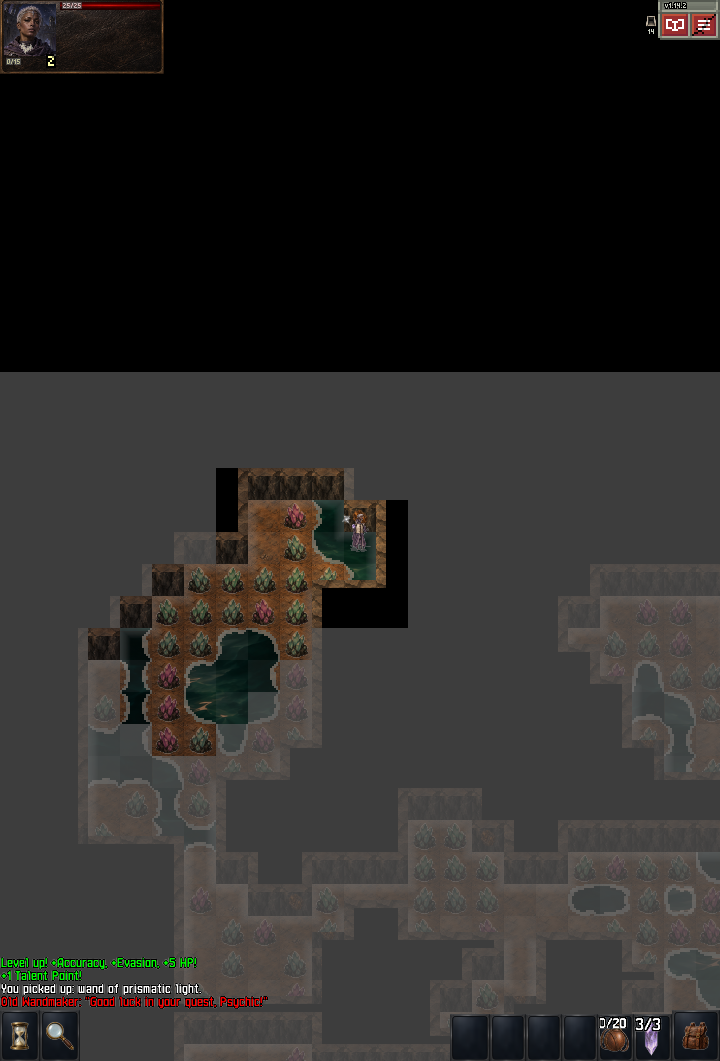
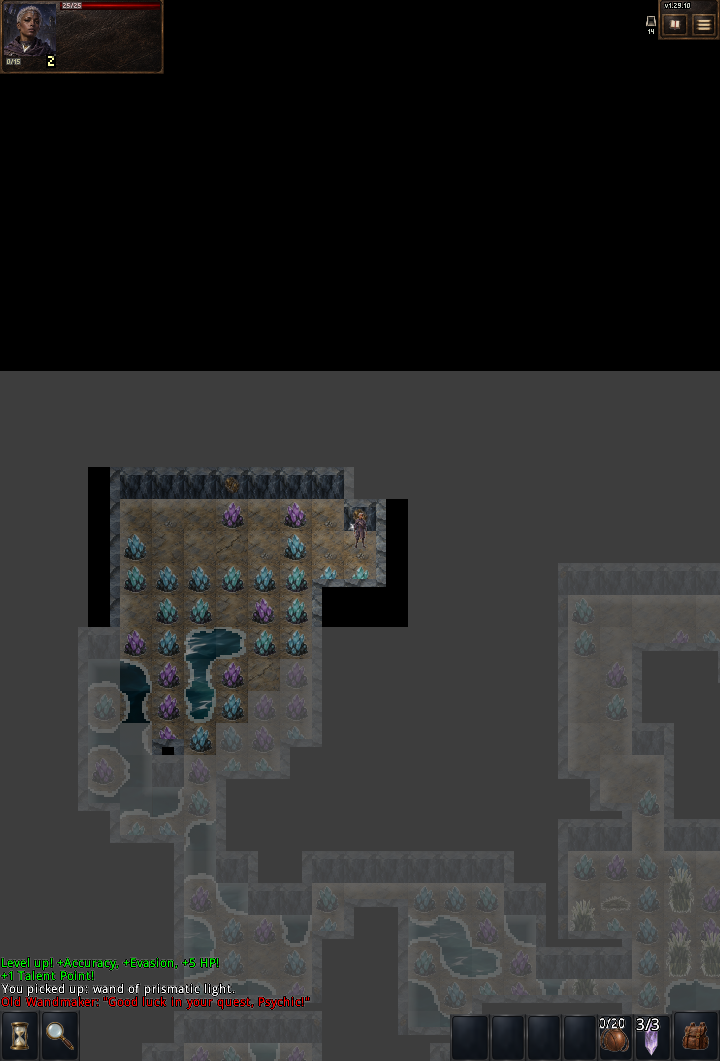
Fix mine ore pocket placement and exposed vein visibility

diff --git a/core/src/test/java/com/shatteredpixel/shatteredpixeldungeon/acceptance/SmokeRun.java b/core/src/test/java/com/shatteredpixel/shatteredpixeldungeon/acceptance/SmokeRun.java
@@ -78,7 +78,7 @@ public class SmokeRun {
                             if(Dungeon.depth!=6) throw new AssertionError("Save/load depth mismatch");
                         }
                     }
-                    if(seed==0){v4Scenario();contentScenario();ashlightScenario();playtestScenario();tabletScenario();psychicWeaponAndDetectionScenario();HatchlingScenario.run();keepsakeScenario();TuningScenario.run();ExpeditionScenario.run();HorrorScenario.run();PlaytestPolishScenario.run();ScribingRoomsScenario.spellguard();ScribingRoomsScenario.scribing();ScribingRoomsScenario.elementalRooms();DoubloonScenario.run();WaywardScenario.run();BountyScenario.run();}
+                    if(seed==0){v4Scenario();contentScenario();ashlightScenario();playtestScenario();tabletScenario();psychicWeaponAndDetectionScenario();HatchlingScenario.run();keepsakeScenario();TuningScenario.run();ExpeditionScenario.run();HorrorScenario.run();PlaytestPolishScenario.run();ScribingRoomsScenario.spellguard();ScribingRoomsScenario.scribing();ScribingRoomsScenario.elementalRooms();DoubloonScenario.run();WaywardScenario.run();BountyScenario.run();miningOreScenario();}
                     String line="PASS "+name+" seed="+seed+" floor=6 save/load=ok";
                     System.out.println(line); log.println(line);
                 } catch(Throwable error) {
@@ -653,6 +653,78 @@ public class SmokeRun {
         for(Class<?> kind:new Class<?>[]{com.shatteredpixel.shatteredpixeldungeon.items.wands.WandOfNecrosis.class,com.shatteredpixel.shatteredpixeldungeon.items.wands.WandOfGravity.class,com.shatteredpixel.shatteredpixeldungeon.items.wands.WandOfBone.class}){int index=Arrays.asList(Generator.Category.WAND.classes).indexOf(kind);check(index>=0&&Generator.Category.WAND.defaultProbs[index]==3,"New wand generator weight");}
         check(Arrays.asList(Weapon.Enchantment.curses).contains(com.shatteredpixel.shatteredpixeldungeon.items.weapon.curses.Echo.class)&&Arrays.asList(Armor.Glyph.curses).contains(com.shatteredpixel.shatteredpixeldungeon.items.armor.curses.Withering.class),"New curse pools");
         System.out.println("PASS CONTENT "+h.heroClass+": curses, healing, three scythes, armor/crown persistence, three wands, Soulfire recipe/immunity, Hourglass charge/upgrade/refund/save, cursed mob/drop, Hexcaster and Chainwarden");
+    }
+    private static void miningOreScenario() throws Exception {
+        com.watabou.utils.Bundle quest = new Bundle();
+        com.shatteredpixel.shatteredpixeldungeon.actors.mobs.npcs.Blacksmith.Quest.storeInBundle(quest);
+        long seed = Dungeon.seed;
+        int depth = Dungeon.depth, branch = Dungeon.branch;
+        Level original = Dungeon.level;
+        int minimum = Integer.MAX_VALUE, maximum = 0, buried = 0, invalidSecretRooms = 0;
+        try {
+            Dungeon.depth = 12; Dungeon.branch = 1;
+            for (int type = 1; type <= 2; type++) for (int sample = 0; sample < 104; sample++) {
+                Dungeon.seed = sample < 100 ? sample : 4507775544315L;
+                Dungeon.depth = sample < 100 ? 12 : sample - 89;
+                Bundle state = new Bundle(), node = new Bundle();
+                node.put("spawned", true); node.put("type", type); state.put("blacksmith", node);
+                com.shatteredpixel.shatteredpixeldungeon.actors.mobs.npcs.Blacksmith.Quest.restoreFromBundle(state);
+                Level mine = new com.shatteredpixel.shatteredpixeldungeon.levels.MiningLevel();
+                mine.create();
+                int ore = 0, levelBuried = 0, sideFacing = 0;
+                for (int cell = 0; cell < mine.length(); cell++) if (mine.map[cell] == Terrain.WALL_DECO) {
+                    check(mine.insideMap(cell), "Mine ore outside diggable boundary: " + sample + "/" + type);
+                    ore++;
+                    if (!mine.discoverable[cell]) { buried++; levelBuried++; }
+                    if (com.shatteredpixel.shatteredpixeldungeon.tiles.DungeonTileSheet.wallStitcheable(mine.map[cell+mine.width()])) sideFacing++;
+                }
+                for (Heap heap : mine.heaps.valueList()) for (Item item : heap.items)
+                    if (item instanceof com.shatteredpixel.shatteredpixeldungeon.items.quest.DarkGold) ore += item.quantity();
+                check(ore >= 45 && ore <= 47, "Mine ore budget: " + sample + "/" + type + " has " + ore);
+                java.util.ArrayList<Integer> secretTotals = new java.util.ArrayList<>();
+                for (com.shatteredpixel.shatteredpixeldungeon.levels.rooms.Room room
+                        : ((com.shatteredpixel.shatteredpixeldungeon.levels.RegularLevel)mine).rooms()) {
+                    if (!(room instanceof com.shatteredpixel.shatteredpixeldungeon.levels.rooms.quest.MineSecretRoom)) continue;
+                    int secretOre = 0;
+                    for (com.watabou.utils.Point point : room.getPoints()) {
+                        if (!room.inside(point)) continue;
+                        int cell = mine.pointToCell(point);
+                        if (mine.map[cell] == Terrain.WALL_DECO) secretOre++;
+                        Heap heap = mine.heaps.get(cell);
+                        if (heap != null) for (Item item : heap.items)
+                            if (item instanceof com.shatteredpixel.shatteredpixeldungeon.items.quest.DarkGold) secretOre += item.quantity();
+                    }
+                    secretTotals.add(secretOre);
+                    if (secretOre < 4 || secretOre > 5) invalidSecretRooms++;
+                }
+                check(secretTotals.size() == 2, "Mine must retain two treasure rooms");
+                if (sample >= 100) System.out.println("MINE REPORTED SEED: " + Dungeon.seed + "; type=" + type
+                        + "; depth=" + Dungeon.depth + "; total=" + ore + "; buried=" + levelBuried
+                        + "; side-facing=" + sideFacing + "; secret rooms=" + secretTotals);
+                if (sample >= 100) {
+                    Bundle stored = new Bundle(); stored.put("mine", mine);
+                    Level restored = (Level)stored.get("mine");
+                    check(Arrays.equals(mine.map, restored.map), "Mine reload changes ore terrain");
+                    int restoredHeaps = 0, originalHeaps = 0;
+                    for (Heap heap : mine.heaps.valueList()) for (Item item : heap.items)
+                        if (item instanceof com.shatteredpixel.shatteredpixeldungeon.items.quest.DarkGold) originalHeaps += item.quantity();
+                    for (Heap heap : restored.heaps.valueList()) for (Item item : heap.items)
+                        if (item instanceof com.shatteredpixel.shatteredpixeldungeon.items.quest.DarkGold) restoredHeaps += item.quantity();
+                    check(originalHeaps == restoredHeaps, "Mine reload changes ore heaps");
+                }
+                minimum = Math.min(minimum, ore); maximum = Math.max(maximum, ore);
+            }
+            check(invalidSecretRooms == 0, "Mine secret-room deposits overwritten: " + invalidSecretRooms + " rooms");
+            check(com.shatteredpixel.shatteredpixeldungeon.items.trinkets.HatchlingMimic.foodPriority(
+                    new com.shatteredpixel.shatteredpixeldungeon.items.quest.DarkGold(), Dungeon.hero) < 0,
+                    "Hatchling must never eat dark ore");
+            System.out.println("PASS MINE ORE: crystal/gnoll 100 seeds each plus reported seed on floors 11-14; total=" + minimum + "-" + maximum
+                    + "; buried veins=" + buried + "; quest ore protected");
+        } finally {
+            Dungeon.seed = seed; Dungeon.depth = depth; Dungeon.branch = branch; Dungeon.level = original;
+            com.shatteredpixel.shatteredpixeldungeon.actors.mobs.npcs.Blacksmith.Quest.restoreFromBundle(quest);
+            com.watabou.utils.PathFinder.setMapSize(original.width(), original.height());
+        }
     }
     private static void v4Scenario() throws Exception {
         // Exercise the merge boundary: actual City/Vault generation, serialized quest and

diff --git a/desktop/src/main/java/com/shatteredpixel/shatteredpixeldungeon/desktop/DesktopSmokeProbe.java b/desktop/src/main/java/com/shatteredpixel/shatteredpixeldungeon/desktop/DesktopSmokeProbe.java
@@ -49,6 +49,7 @@ final class DesktopSmokeProbe extends ShatteredPixelDungeon {
     private com.shatteredpixel.shatteredpixeldungeon.actors.mobs.npcs.TreasureHunter expeditionHunter;
     private final boolean roomReview=Boolean.getBoolean("grimhollow.roomReview");
     private int roomStep, roomFrames, ritualTable, ritualCage, roomCenter;
+    private int minedOreCell, oreBeforeMining;
     private final boolean presentationReview=Boolean.getBoolean("grimhollow.presentationReview");
     private boolean presentationStarted;
     private final java.util.HashSet<Integer> loadingCaptures=new java.util.HashSet<>();
@@ -2217,15 +2218,17 @@ final class DesktopSmokeProbe extends ShatteredPixelDungeon {
                     int ore=roomCenter-Dungeon.level.width();Level.set(ore,Terrain.WALL_DECO);
                     EnhancedEffects.Torch flame=new EnhancedEffects.Torch(ore);Level.set(ore,Terrain.EMPTY);flame.update();
                     if(flame.alive)throw new AssertionError("Flame survived source mining");
-                    GameScene.updateMap();break;
+                    GameScene.updateMap();startNativeOreMining();break;
                 case 9:
-                    capture("gnoll-mine-after-mining");prepareRooms(3);switchNoFade(GameScene.class);break;
+                    assertNativeOreMined();capture("gnoll-mine-after-mining");prepareRooms(3);switchNoFade(GameScene.class);break;
                 case 10:
                     miningTorchChecks();capture("crystal-mine");
                     com.shatteredpixel.shatteredpixeldungeon.actors.mobs.Chainwarden boss=new com.shatteredpixel.shatteredpixeldungeon.actors.mobs.Chainwarden();
                     boss.pos=Dungeon.hero.pos+1;boss.HP=boss.HT/2;GameScene.add(boss);com.shatteredpixel.shatteredpixeldungeon.ui.BossHealthBar.assignBoss(boss);
+                    startNativeOreMining();
                     break;
                 case 11:
+                    assertNativeOreMined();
                     capture("painted-boss-bar");
                     for(Icons icon:new Icons[]{Icons.DEPTH,Icons.DEPTH_CHASM,Icons.DEPTH_WATER,Icons.DEPTH_GRASS,Icons.DEPTH_DARK,Icons.DEPTH_LARGE,Icons.DEPTH_TRAPS,Icons.DEPTH_SECRETS}){
                         Image visual=icon.get();if(visual.frame().width()*visual.texture.width<63)throw new AssertionError("Pixel depth icon: "+icon);visual.destroy();
@@ -2318,6 +2321,44 @@ final class DesktopSmokeProbe extends ShatteredPixelDungeon {
         if(ore==0)throw new AssertionError("No ore in generated mine");
         for(com.watabou.noosa.Gizmo child:RecoveryChecks.members(Game.scene()))
             if(child instanceof EnhancedEffects.Torch)throw new AssertionError("Ore torch was instantiated");
+    }
+
+    private int collectedMineOre() {
+        int count=0;
+        for(com.shatteredpixel.shatteredpixeldungeon.items.Item item:Dungeon.hero.belongings)
+            if(item instanceof com.shatteredpixel.shatteredpixeldungeon.items.quest.DarkGold)count+=item.quantity();
+        for(com.shatteredpixel.shatteredpixeldungeon.items.Heap heap:Dungeon.level.heaps.valueList())
+            for(com.shatteredpixel.shatteredpixeldungeon.items.Item item:heap.items)
+                if(item instanceof com.shatteredpixel.shatteredpixeldungeon.items.quest.DarkGold)count+=item.quantity();
+        return count;
+    }
+    private void startNativeOreMining() throws ReflectiveOperationException {
+        int width=Dungeon.level.width(),stand=-1;
+        minedOreCell=-1;
+        for(int cell=width;cell<Dungeon.level.length()-width;cell++) {
+            if(Dungeon.level.map[cell]!=Terrain.WALL_DECO
+                    ||!com.shatteredpixel.shatteredpixeldungeon.tiles.DungeonTileSheet.wallStitcheable(Dungeon.level.map[cell+width]))continue;
+            for(int offset:new int[]{1,-1})if(Dungeon.level.passable[cell+offset]) {
+                minedOreCell=cell;stand=cell+offset;break;
+            }
+            if(stand>=0)break;
+        }
+        if(stand<0)throw new AssertionError("No side-facing ore in generated mine");
+        if(Dungeon.hero.belongings.getItem(com.shatteredpixel.shatteredpixeldungeon.items.quest.Pickaxe.class)==null)
+            Dungeon.hero.belongings.backpack.items.add(new com.shatteredpixel.shatteredpixeldungeon.items.quest.Pickaxe().identify());
+        Dungeon.hero.pos=stand;Dungeon.hero.sprite.place(stand);
+        Camera.main.snapTo(Dungeon.hero.sprite.center());Dungeon.observe();GameScene.updateMap();
+        oreBeforeMining=collectedMineOre();
+        java.lang.reflect.Method mine=com.shatteredpixel.shatteredpixeldungeon.actors.hero.Hero.class.getDeclaredMethod(
+                "actMine",com.shatteredpixel.shatteredpixeldungeon.actors.hero.HeroAction.Mine.class);
+        mine.setAccessible(true);
+        mine.invoke(Dungeon.hero,new com.shatteredpixel.shatteredpixeldungeon.actors.hero.HeroAction.Mine(minedOreCell));
+    }
+    private void assertNativeOreMined() {
+        if(Dungeon.level.map[minedOreCell]!=Terrain.EMPTY_DECO || collectedMineOre()!=oreBeforeMining+1)
+            throw new AssertionError("Animated mining lost side-facing ore");
+        System.out.println("MINE ORE NATIVE PASS: actual side-wall mining callback preserves one ore; variant="
+                +com.shatteredpixel.shatteredpixeldungeon.actors.mobs.npcs.Blacksmith.Quest.Type());
     }
 
     private void reviewRegionTransition(int floor) throws java.io.IOException {

diff --git a/tools/painted/quest_rooms.py b/tools/painted/quest_rooms.py
@@ -68,8 +68,23 @@ def mining(base,features,crystal):
     ore=centered(forge()[2],(49,42))
     for index in [49,53]+list(range(84,88))+list(range(100,104)):
         face=cell(base,48);face.alpha_composite(ore,(0,4));put(atlas,index,face)
-    ore_cap=cell(base,48);ore_cap.alpha_composite(ore)
-    for index in list(range(160,176))+list(range(196,200)):
+    # Internal walls expose only a 20px strip on each open side. A centered
+    # deposit is almost entirely clipped by those strips, hiding mineable ore.
+    side_ore=fit(forge()[2],16,28)
+    for index in range(160,176):
+        ore_cap=cell(base,48)
+        ore_cap.alpha_composite(side_ore,(2,14))
+        ore_cap.alpha_composite(side_ore.transpose(Image.Transpose.FLIP_LEFT_RIGHT),(46,14))
+        tile=surface_mask(cell(old,index),ore_cap)
+        if index>160:
+            bare=surface_mask(cell(old,index),cell(base,48))
+            changed=np.any(np.array(tile)[:,:,:3]!=np.array(bare)[:,:,:3],axis=2)
+            assert np.count_nonzero(changed & (np.array(tile)[:,:,3]>0))>=160,('clipped ore',kind,index)
+        put(atlas,index,tile)
+    # Overhangs expose a horizontal band at y=32..47, not the tile center.
+    rim_ore=fit(forge()[2],36,14)
+    ore_cap=cell(base,48);ore_cap.alpha_composite(rim_ore,((64-rim_ore.width)//2,33))
+    for index in range(196,200):
         put(atlas,index,surface_mask(cell(old,index),ore_cap))
     floor=cell(base,0)
     rocks=panels('region-props.png')[6]

diff --git a/core/src/main/java/com/shatteredpixel/shatteredpixeldungeon/ui/changelist/GrimhollowChanges.java b/core/src/main/java/com/shatteredpixel/shatteredpixeldungeon/ui/changelist/GrimhollowChanges.java
@@ -20,7 +20,9 @@ public final class GrimhollowChanges {
         release.addButton(new ChangeButton(icon.get(),title,text));
     }
     public static void addAllChanges(ArrayList<ChangeInfo> list) {
-        ChangeInfo r=release(list,"v1.29.9","Clearer motion and dependable telekinesis.");
+        ChangeInfo r=release(list,"v1.29.10","Dark veins in the rock.");
+        note(r,Icons.INFO,"Mine ore","Dark ore is visible on side-facing rock and wall rims, using the mine's existing painted mineral. Crystal treasure pockets place their deposits on separate cells. Existing mines keep their terrain and collected ore.");
+        r=release(list,"v1.29.9","Clearer motion and dependable telekinesis.");
         note(r,Icons.TALENT,"Hurl and stealth","A practiced Seer's Hurl springs traps along its path as well as on landing, while retaining its ledge and impact effects. Chainwarden cannot pull a hero concealed by the Cloak or another invisibility effect. Rogue's Foresight has its own eye motif.");
         note(r,Icons.PREFS,"Quiet speed","Drinking raises and tips the painted bottle. Haste leaves restrained blue-silver brush wisps at your boots while moving, for as long as its effect lasts. Ambush warnings have no directional marker, from either side; the popup follows your Playtest setting.");
         r=release(list,"v1.29.8","The Horror's warning stands on its own.");

diff --git a/tools/painted/pack.py b/tools/painted/pack.py
@@ -270,7 +270,10 @@ def main():
         from artwork_previews import outputs as previews
         world={f'environment/tiles_{r}.png':Image.open(ASSETS/f'environment/tiles_{r}.png').convert('RGBA') for r in ['sewers','prison','caves','city','halls']}
         features=Image.open(ASSETS/'environment/terrain_features.png').convert('RGBA')
-        built={**regional_outputs(),'environment/custom_tiles/caves_quest.png':quest_outputs(world,features)['environment/custom_tiles/caves_quest.png'],**previews()}
+        quest=quest_outputs(world,features)
+        built={**regional_outputs(),**{path:quest[path] for path in (
+            'environment/custom_tiles/caves_quest.png','environment/tiles_caves_crystal.png',
+            'environment/tiles_caves_gnoll.png')},**previews()}
     elif args.wanted:
         from wanted import outputs as wanted_outputs
         from bounty import poster_assets

diff --git a/core/src/main/java/com/shatteredpixel/shatteredpixeldungeon/levels/painters/MiningLevelPainter.java b/core/src/main/java/com/shatteredpixel/shatteredpixeldungeon/levels/painters/MiningLevelPainter.java
@@ -101,7 +101,7 @@ public class MiningLevelPainter extends CavesPainter {
 							map[pos+i] = Terrain.WALL_DECO;
 							goldToAdd--;
 						}
-						if (Random.Int(2) == 0){
+						if (goldToAdd > 0 && Random.Int(2) == 0){
 							i = PathFinder.NEIGHBOURS4[Random.Int(4)];
 							if (level.insideMap(pos+i) && map[pos+i] == Terrain.WALL){
 								map[pos+i] = Terrain.WALL_DECO;

diff --git a/core/src/main/java/com/shatteredpixel/shatteredpixeldungeon/levels/rooms/quest/MineSecretRoom.java b/core/src/main/java/com/shatteredpixel/shatteredpixeldungeon/levels/rooms/quest/MineSecretRoom.java
@@ -66,7 +66,7 @@ public class MineSecretRoom extends SecretRoom {
 			do {
 				cell = level.pointToCell(random(1));
 			} while (level.map[cell] == Terrain.WALL_DECO);
-			Painter.set(level, random(1), Terrain.WALL_DECO);
+			Painter.set(level, cell, Terrain.WALL_DECO);
 		}
 
 	}

diff --git a/verification/ACCEPTANCE.md b/verification/ACCEPTANCE.md
@@ -1,3 +1,22 @@
+# Mine ore - v1.29.10
+
+- Final `gradlew.bat core:test core:smokeRun desktop:dist android:assembleDebug --no-daemon --console=plain`: **BUILD SUCCESSFUL in 1m 28s; Runs=30 failures=0**. Eight JUnit tests have zero failures/errors. Each class checks 208 mining cases: 100 seeds for each implemented quest variant, plus seed 4507775544315 at depths 11-14 for both variants. All have 45-47 ore, two treasure pockets with 4-5 pieces each, diggable boundary positions and protected quest ore. The supplied seed's eight mine snapshots retain their terrain and loose ore across Bundle save/load.
+- Original-generation reproduction of the reported **crystal** seed, before the placement fix:
+
+| Blacksmith dungeon floor | Total ore | Completely buried ore | Ore in the two treasure pockets |
+|---|---|---|---|
+| 11 | 45 | 4 | 4 / 4 |
+| 12 | 46 | 4 | 4 / 5 |
+| 13 | 47 | 7 | 5 / 3 |
+| 14 | 45 | 2 | 4 / 4 |
+
+These are regenerated levels, not the tablet save. No total-ore shortage was reproduced. Magic Mapping skips completely buried rock; crystal treasure pockets contain veins rather than ore chests. Original room-placement checks fail on 57 pockets across the 208 cases because a second random coordinate overwrites deposits. The fixed code uses the validated cell. A later regression caught an optional extra deposit overshooting the total by one; its remaining-budget guard is corrected.
+
+- Existing native room review passes landscape and portrait: **MINE ORE NATIVE PASS** for gnoll and crystal, then **TEST 57 ROOMS PASS** and **REGIONAL SCENERY PASS; failures=0** in each. It invokes the real animated mining callback on side-facing ore, verifies one piece is collected or remains in a heap, and checks the mined terrain. Initial native attempts used a Playtest-only teleport in an ordinary fixture save; corrected fixture placement retains the production mining path. Only this desktop fixture repair required a subsequent `desktop:dist` build, successful in 27s.
+- Ore on side cutaways previously retained only 58-122 changed pixels, almost entirely clipping the centered mineral. The existing packer fits the same authored mineral to the exposed side/rim masks and asserts at least 160 visible changed pixels on each exposed internal variant. Fully buried interiors retain black masks. **PAINTED assets=1937 source sheets=182 launcher resources=55 failures=0; TEST 44 failures=0**. No new art was generated. Only the two mine atlas PNGs changed; their APK bytes and provenance manifest match the shipping assets.
[1 lines of base64/hex data omitted]
+- The exact tablet save, collection history and physical tablet play are **NOT RUN**. Existing mine geometry and ore are not rerolled; the visual correction applies to old saves, while placement corrections apply to new mines. Test 45 remains **Abandoned: test failed**, not rerun; prior retired tests retain their status. Full CI remains enabled and its exact release result is reported at delivery.
+
 # Telekinesis, stealth and motion - v1.29.9
 
 - Final `gradlew.bat core:test core:smokeRun desktop:dist android:assembleDebug --no-daemon --console=plain`: **BUILD SUCCESSFUL in 1m 13s; Runs=30 failures=0**. Eight JUnit tests have zero failures/errors. Test 48 checks every Crystal level 0-10 for Push/Hurl distance, wall/creature impact damage and status, landing traps, Hurl's intermediate hidden/visible traps with correct victim occupancy, no duplicate landing activation, lethal/relocating interruption, first chasm edge and boss rules. Existing content checks exercise actual Cloak stealth, potion invisibility, absent line of sight and resumed Chainwarden pulls, plus rejection of targeted traps while cloaked.

diff --git a/CHANGES.md b/CHANGES.md
@@ -1,3 +1,9 @@
+# Mine ore v1.29.10 - 2026-10-08
+
+- The mine's side-wall cutaways expose narrow edge strips, while its upper rim exposes a horizontal band. The centered ore painting was mostly outside these masks. The existing offline packer places the same authored mineral inside those exposed strips; buried wall interiors remain black. Only the two mine atlases change.
+- Crystal treasure pockets now paint the empty cell they checked, rather than drawing another random cell and potentially overwriting a previous deposit. The main painter also stops its optional third deposit when the remaining budget reaches zero. The intended total remains 45-47; mining, quest rewards and collected ore are unchanged. Already-generated mines are preserved.
+- Investigated tablet seed 4507775544315 using the original generation code at all four possible blacksmith depths. Totals were 45/46/47/45, with 4/4/7/2 buried pieces; Magic Mapping excludes completely buried rock, and crystal pockets contain veins rather than ore chests. This reproduces the seed, not the player's exact tablet save or collected-item history.
+
 # Telekinesis, stealth and motion v1.29.9 - 2026-10-08
 
 - Crystal +6 and higher Hurl hard-presses intermediate traps with the victim occupying each cell, in path order; landing still triggers once. Death, teleportation or replacement ends the remaining throw. Push, ordinary Blast Wave and the existing collision/Paralysis, chasm and boss thresholds retain their behavior.

diff --git a/KNOWN_ISSUES.md b/KNOWN_ISSUES.md
@@ -1,5 +1,7 @@
 # Known issues
 
+- v1.29.10: No total-ore shortage reproduced in the original generation of reported tablet seed 4507775544315; the actual tablet save and its collection history were unavailable. The placement and clipping defects are fixed without rerolling existing mines. Physical tablet testing remains NOT RUN. Initial Git approval review hit the usage limit; the authorized retry succeeded after the user resumed work.
+
 - v1.29.9: Physical Samsung tablet and the user's exact Chainwarden/Horror saves are NOT RUN; native portrait/touch checks are not hardware testing. The first extended visual fixture needed checked-exception handling, an unpaused drinking sample, visible-paint sizing instead of atlas padding, and a frame after closing the menu. Failed attempts are not counted as passing. Terrain contrast test 45 remains Abandoned: test failed and is not rerun.
 
 - v1.29.4: physical Samsung tablet review remains NOT RUN. The first native Bounty attempt mistakenly required a modal while checking the HUD alone; HUD and popup bounds now have separate assertions. An old-save test initially referenced an unavailable JSON dependency and now uses the existing Bundle API. Failed attempts are not counted as passing. Test 45 remains Abandoned: test failed and is not rerun.

diff --git a/README.md b/README.md
@@ -1,3 +1,9 @@
+# Mine ore placement and visibility - v1.29.10
+
+Exposed ore on side-facing walls and wall rims now retains its painted mineral instead of clipping it away. Crystal treasure pockets place their ore on separate cells; the mine painter respects its existing 45-47-piece allowance. No mine is rerolled on loading, and collected ore is unchanged. The artwork fix applies to already-generated mines.
+
+Windows: `desktop/build/windows/1.29.10/Grimhollow/Grimhollow.exe` (keep the entire folder). Android: `android/build/outputs/apk/debug/android-debug.apk` (`1.29.10-INDEV`, version code 1009).
+
 # Telekinesis, stealth and motion - v1.29.9
 
 High-level Hurl springs traps along the thrown creature's path as well as at its landing, retaining its existing impact damage and ledge rules. A lethal or relocating trap ends the throw safely. Chainwarden's pulls and targeted traps respect Cloak stealth, other invisibility and line of sight. Rogue's Foresight uses a distinct eye painting instead of Wide Search's magnifying glass.
